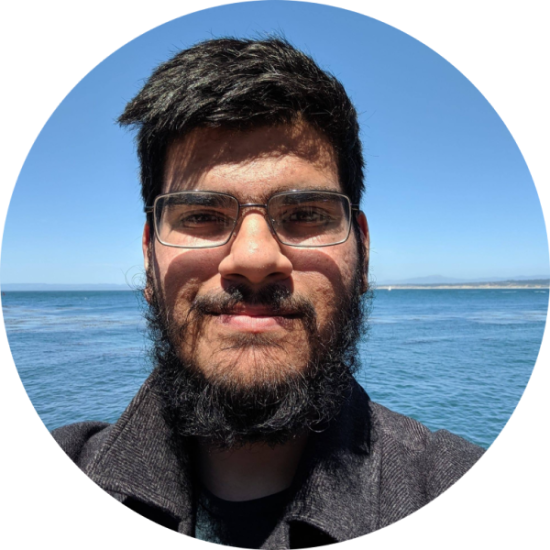
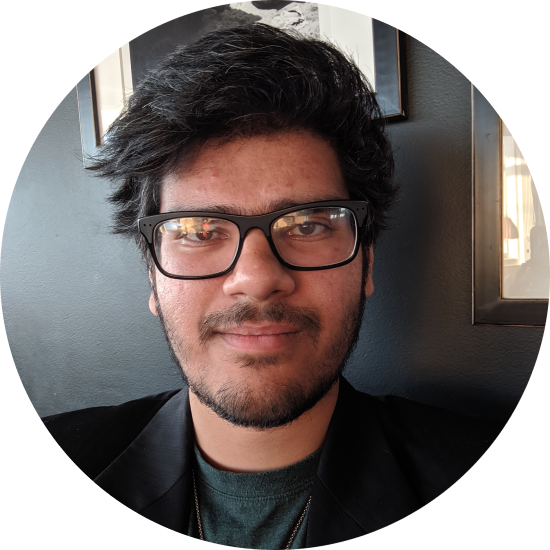
Typos and New PFP

diff --git a/src/pages/projects/ProjectsComponent.js b/src/pages/projects/ProjectsComponent.js
@@ -13,13 +13,13 @@ class Projects extends Component {
     const ProjectsData = [
         {"id":"VhYzYSLCXg5zm3HG","name":"Portfolio","createdAt":"February 7th 2021","url":"https://github.com/Kalightortaio/kalightortaio.github.io","description":"My own personal domain to host projects, provide example code of my capabilities, and gain experience with multiple backends operating on one domain.","languages":[{"name":"React","iconifyClass":"cib-react"},{"name":"HTML","iconifyClass":"logos-html-5"},{"name":"CSS","iconifyClass":"logos-css-3"}]},
         {"id":"jvANhgq8HLcxZXZx","name":"Community Care and Hospice","createdAt":"February 12th 2019","url":"https://github.com/Kalightortaio/Community-Care-and-Hospice","description":"A commercial website designed to advertise my client’s medical business and to connect patients to hospice services and community resources.","languages":[{"name":"Python","iconifyClass":"logos-python"},{"name":"HTML","iconifyClass":"logos-html-5"},{"name":"CSS","iconifyClass":"logos-css-3"}]},
-        {"id":"NYLq3zYqFEUWZ38L","name":"Drain Sensei","createdAt":"June 5th 2019","url":"https://github.com/Kalightortaio/Drain-Sensei","description":"A mobile app created to service both consumers and rooting professionals with the usage of Drain Sensei devices.","languages":[{"name":"React Native","iconifyClass":"cib-react"}]},
-        {"id":"5ucbFsPvxqrKwD66","name":"Shortcut","createdAt":"August 2nd 2018","url":"https://github.com/Kalightortaio/Shortcut","description":"A powershell module aimed at making navigating the Windows OS a little bit easier.","languages":[{"name":"Powershell","iconifyClass":"vscode-icons:file-type-powershell"}]},
+        {"id":"NYLq3zYqFEUWZ38L","name":"Drain Sensei","createdAt":"June 5th 2019","url":"https://github.com/Kalightortaio/Drain-Sensei","description":"A mobile app created to service both consumers and plumbing professionals with the usage of Drain Sensei devices.","languages":[{"name":"React Native","iconifyClass":"cib-react"}]},
+        {"id":"5ucbFsPvxqrKwD66","name":"Shortcut","createdAt":"August 2nd 2018","url":"https://github.com/Kalightortaio/Shortcut","description":"A powershell module aimed at making navigating the Windows OS a little easier.","languages":[{"name":"Powershell","iconifyClass":"vscode-icons:file-type-powershell"}]},
         {"id":"6fC5U2MhbgwtK2LH","name":"Expert Mode","createdAt":"April 9th 2019","url":"https://github.com/Kalightortaio/Expert-Mode","description":"A client side mod for Minecraft, written in the game’s data pack format.","languages":[{"name":"mcfunction","iconifyClass":"pixelarticons-script-text"}]},
         {"id":"V2nX26EbwVCtmkMk","name":"Isaac Reforged","createdAt":"December 28th 2020","url":"https://github.com/Kalightortaio/Isaac-Reforged","description":"A client side mod for the Binding of Isaac, aimed to rework various aspects of the game.","languages":[{"name":"Lua","iconifyClass":"logos-lua"}]},
         {"id":"6fC5U2MhbgwtK2LH","name":"Items Reforged","createdAt":"December 3rd 2020","url":"https://github.com/Kalightortaio/Items-Reforged","description":"A client side mod for the Binding of Isaac, aimed to rework various aspects of the game.","languages":[{"name":"Lua","iconifyClass":"logos-lua"}]},
         {"id":"6fC5U2MhbgwtK2LH","name":"Aux Cord (WIP)","createdAt":"February 1st 2021","url":"https://github.com/Kalightortaio/Aux-Cord","description":"A basic music library app with a geopositional social twist.","languages":[{"name":"Java","iconifyClass":"logos-java"}]},
-        {"id":"6fC5U2MhbgwtK2LH","name":"Oryx's Paracosm (WIP)","createdAt":"February 5th 1st 2021","url":"https://github.com/Kalightortaio/Oryxs-Paracosm","description":"My current delve into lower level programming and game development.","languages":[{"name":"C++","iconifyClass":"logos-c-plusplus"},{"name":"OpenGL","iconifyClass":"logos-opengl"}]},
+        {"id":"6fC5U2MhbgwtK2LH","name":"Oryx's Paracosm (WIP)","createdAt":"February 5th 1st 2021","url":"https://github.com/Kalightortaio/Oryxs-Paracosm","description":"My current project into lower level programming and game development.","languages":[{"name":"C++","iconifyClass":"logos-c-plusplus"},{"name":"OpenGL","iconifyClass":"logos-opengl"}]},
     ]
     return (
       <div className="projects-main">
@@ -41,7 +41,7 @@ class Projects extends Component {
                   className="projects-header-detail-text subTitle"
                   style={{ color: theme.secondaryText }}
                 >
-                  My projects make use of a vast array of different languages and modules. Each serves as a unique challenge to either strengthen my knowledge, or expand past my horizons.
+                  My projects make use of a vast array of different languages and modules. Each serves as a unique challenge to  strengthen my knowledge, and expand my horizons.
                 </p>
               </div>
             </div>

diff --git a/src/pages/experience/ExperienceComponent.js b/src/pages/experience/ExperienceComponent.js
@@ -13,7 +13,7 @@ class Experience extends Component {
         title: "Experience",
         subtitle: "Work and Internship",
         description:
-            "I have worked admist a range of evolving startups, community projects, and well established companies. I have also worked outside my field, however programming pertains to my true passion.",
+            "I have worked with a range of evolving startups, community projects, and well established companies. I also have experience outside my field, however programming continues to my true passion.",
         header_image_path: "experience.svg",
         sections: [
             {
@@ -26,7 +26,7 @@ class Experience extends Component {
                         logo_path: "/images/freelance.gif",
                         duration: "February 2019 - Present",
                         location: "Thousan Oaks, CA",
-                        description: "After being formally trained by Coding Dojo, and taking classes at Moorpark College, I have begun my prospective programming career. I have much to learn, and much to offer!",
+                        description: "After being formally trained by Coding Dojo, and taking classes at Moorpark College, I have begun my prospective programming career. I have much to offer, and always willing to learn.",
                         color: "#0879bf"
                     },
                     {
@@ -46,7 +46,7 @@ class Experience extends Component {
                         logo_path: "/images/sprouts.png",
                         duration: "March 2020 - Present",
                         location: "Thousan Oaks, CA",
-                        description: "This is a food distribution company. I worked as a sales associate during the covid-19 pandemic. This position strengthened my verbal and interpersonal communication skills, while harboring a friendly work enviroment.",
+                        description: "This is a food distribution company. I worked as a sales associate during the covid-19 pandemic. This position strengthened my verbal and interpersonal communication skills, while harboring a friendly work environment and providing excellent customer service.",
                         color: "#0879bf"
                     },
                     {
@@ -71,7 +71,7 @@ class Experience extends Component {
                         logo_path: "/images/drainsensei.png",
                         duration: "June 2019 - December 2019",
                         location: "Burbank, CA",
-                        description: "As rising startup, this project involved react native to easily lauch on both mobile platforms. Over the course of several weeks, I learned the language and implemented a front end for both users and professionals. The app serves two functions, to serve information to all users, and to connect users to professionals and vice-versa.",
+                        description: "As rising startup, this project involved react native to easily launch on both mobile platforms. Over the course of several weeks, I learned the language and implemented a front end for both users and professionals. The app serves two functions, to serve information to all users, and to connect users to professionals and vice-versa.",
                         color: "#0879bf"
                     }
                 ]

diff --git a/src/containers/skills/SkillSection.js b/src/containers/skills/SkillSection.js
@@ -99,7 +99,7 @@ class SkillSection extends Component {
             title: "Team Oriented Practices",
             fileName: "SkillSVG3",
             skills: [
-                "Experience working on multiple cloud platforms and collaborative efforts",
+                "Experience with working on multiple cloud platforms and collaborative efforts",
                 "Hosting and maintaining websites on virtual machine instances along with integration of databases",
                 "Due diligence when making comments in code, handling version control, or debugging",
             ],
@@ -167,8 +167,8 @@ class SkillSection extends Component {
             fileName: "SkillSVG1",
             skills: [
                 "Holds a functionality over form design philosophy, that shapes the basis of many of my projects",
-                "Ability to pick up a new language, api, or skill fairly quickly.",
-                "Working towards my Bachelor degree in Computer Science",
+                "Ability to pick up a new language, api, or skill quickly.",
+                "Currently on the path of obtaining a Bachelor degree in Computer Science",
                 "Actively learning C++, OpenGL, and Tensorflow",
             ],
             softwareSkills: [

diff --git a/src/containers/education/Educations.js b/src/containers/education/Educations.js
@@ -14,8 +14,8 @@ class Educations extends Component {
         alt_name: "Moorpark College",
         duration: "2019 - Present",
         descriptions: [
-          "I have studied basic software engineering and physics subjects.",
-          "Apart from this, I have done extraccuricular courses on  and Full Stack Development.",
+          "I am studying basic software engineering and physics.",
+          "I have taken extraccuricular courses on Software and Full Stack Development.",
         ],
         website_link: "https://www.moorparkcollege.edu/",
       },
@@ -25,7 +25,7 @@ class Educations extends Component {
         <div className="educations-header-div">
           <Fade bottom duration={2000} distance="20px">
             <h1 className="educations-header" style={{ color: theme.text }}>
-              Degrees in Process
+              Degrees
             </h1>
           </Fade>
         </div>
